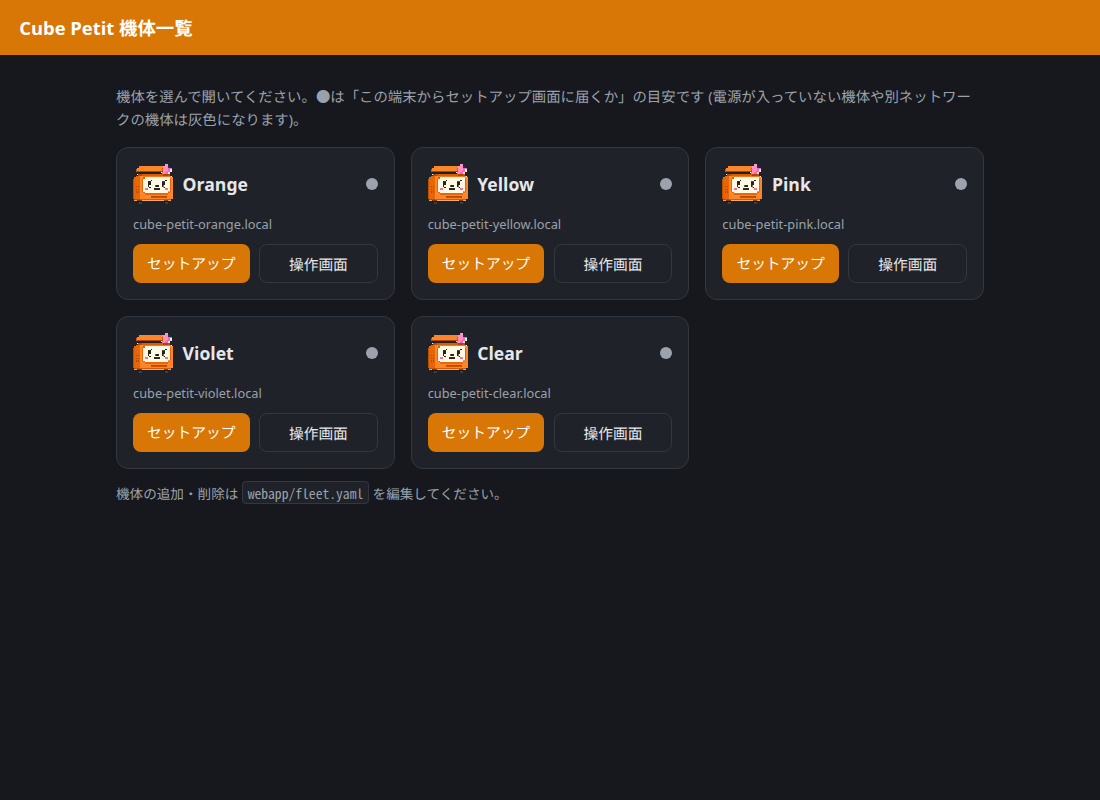
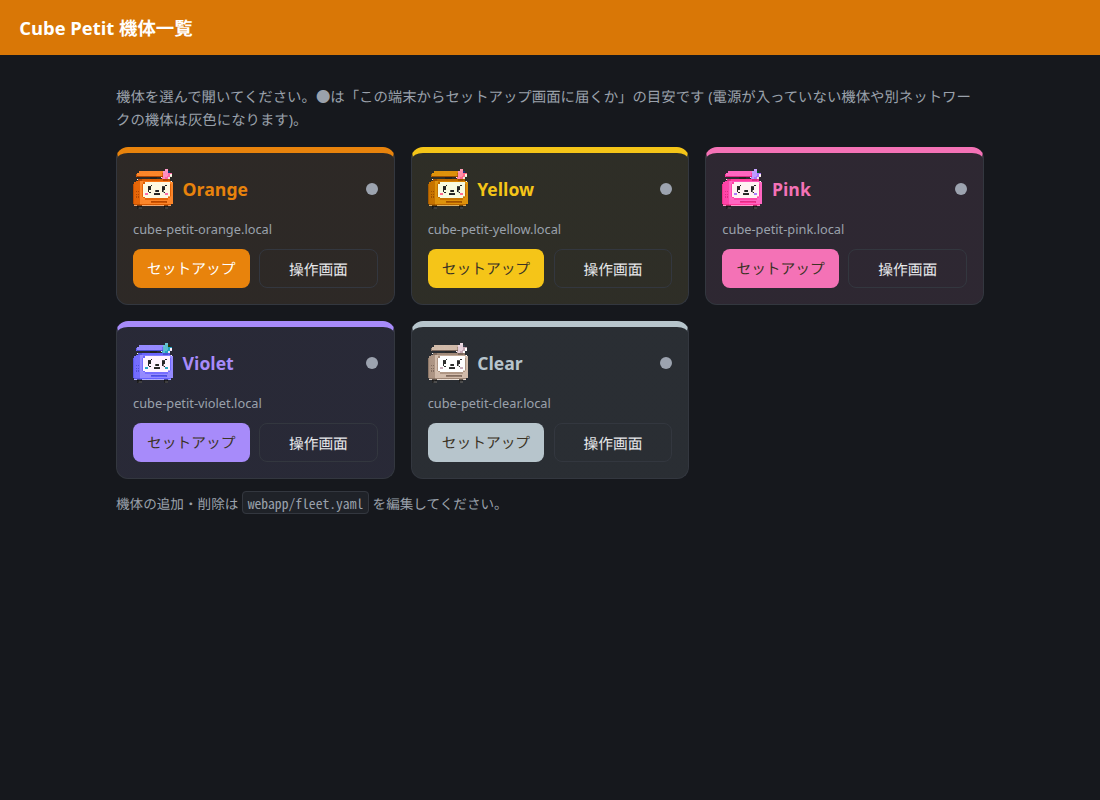
fleet: color-code robot cards by individual body color
Per-robot accent (fleet.yaml color field, built-in palette fallback):
top bar, name, setup button (with luminance-aware text contrast) and a
subtle background tint. The petit sprite itself is hue-shifted toward
each body color via CSS filters (grayscale+brightness for clear), so
each card shows 'its' robot.

diff --git a/webapp/static/fleet.js b/webapp/static/fleet.js
@@ -1,18 +1,50 @@
 // Fleet landing page: renders robot cards from /api/fleet and probes each
 // robot's setup app for reachability. Plain JS, no build step, no CDN.
 
+// Built-in accent palette, used when fleet.yaml doesn't give a color.
+const DEFAULT_COLORS = {
+  orange: "#E8830C",
+  yellow: "#F5C518",
+  pink: "#F472B6",
+  violet: "#A78BFA",
+  clear: "#B7C5CC",
+};
+
+// CSS filters that shift the (orange) petit sprite toward each body color.
+// Keyed by robot name; unknown names keep the original sprite.
+const PETIT_FILTERS = {
+  orange: "none",
+  yellow: "hue-rotate(28deg) saturate(1.2) brightness(1.08)",
+  pink: "hue-rotate(-62deg) saturate(1.1)",
+  violet: "hue-rotate(221deg)",
+  clear: "grayscale(0.85) brightness(1.25)",
+};
+
+function hexToRgba(hex, alpha) {
+  const m = /^#?([0-9a-f]{6})$/i.exec(hex || "");
+  if (!m) return null;
+  const n = parseInt(m[1], 16);
+  return `rgba(${(n >> 16) & 255}, ${(n >> 8) & 255}, ${n & 255}, ${alpha})`;
+}
+
 function makeCard(robot, ports) {
   const card = document.createElement("div");
   card.className = "fleet-card";
+  const color = robot.color || DEFAULT_COLORS[robot.name] || "#d97706";
+  card.style.borderTop = `6px solid ${color}`;
+  const tint = hexToRgba(color, 0.07);
+  if (tint) card.style.background = `linear-gradient(${tint}, ${tint}), var(--panel-bg)`;
 
   const head = document.createElement("div");
   head.className = "fleet-card-head";
   const img = document.createElement("img");
   img.src = "/static/petit.png";
   img.alt = "";
+  img.style.filter = PETIT_FILTERS[robot.name] || "none";
   const name = document.createElement("span");
   name.className = "fleet-name";
   name.textContent = robot.name;
+  name.style.color = color;
   const dot = document.createElement("span");
   dot.className = "fleet-dot checking";
   dot.title = "確認中...";
@@ -32,6 +64,14 @@ function makeCard(robot, ports) {
   setup.className = "setup";
   setup.href = `http://${robot.host}:${ports.setup}/`;
   setup.textContent = "セットアップ";
+  setup.style.background = color;
+  // Light accents (yellow/clear) need dark text to stay readable.
+  const rgb = /^#?([0-9a-f]{6})$/i.exec(color || "");
+  if (rgb) {
+    const n = parseInt(rgb[1], 16);
+    const lum = (0.299 * ((n >> 16) & 255) + 0.587 * ((n >> 8) & 255) + 0.114 * (n & 255)) / 255;
+    setup.style.color = lum > 0.62 ? "#3b3325" : "#ffffff";
+  }
   const control = document.createElement("a");
   control.className = "control";
   control.href = `http://${robot.host}:${ports.control}/`;
